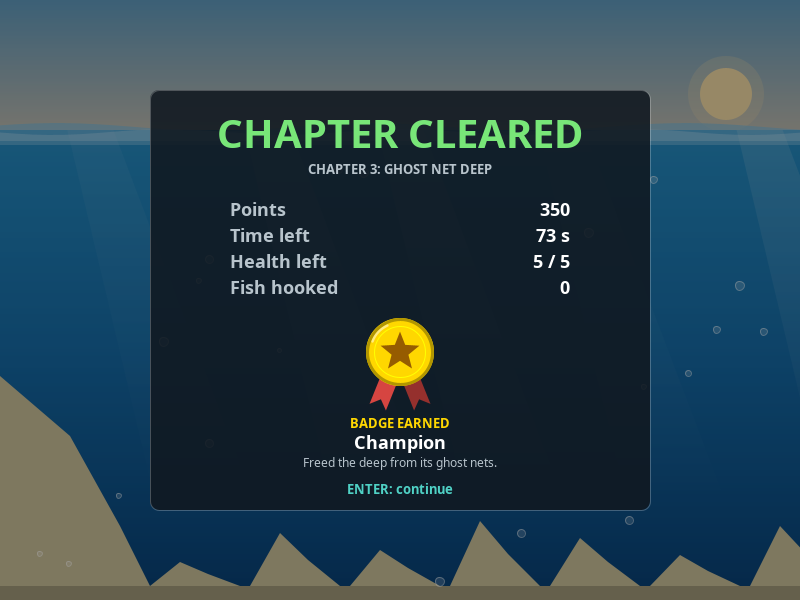
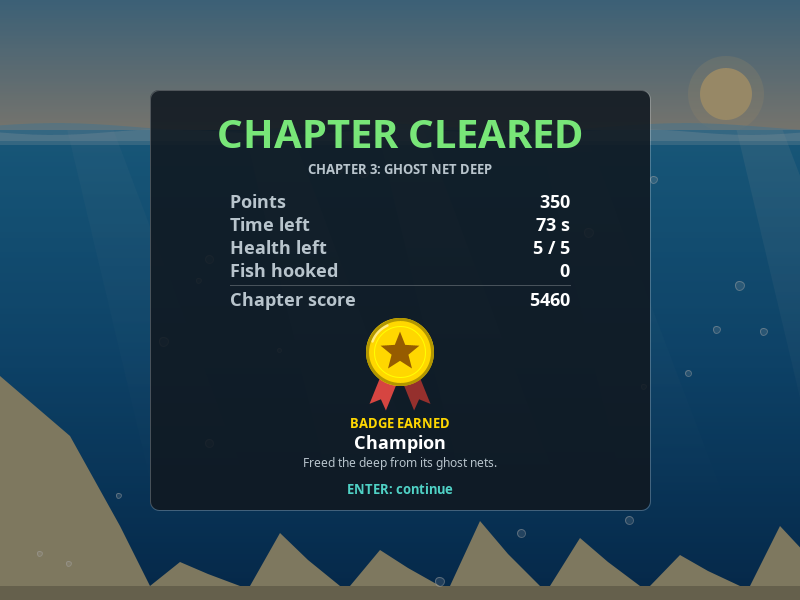
docs: describe the run score and the high scores

Changed region(s): [[0.2812, 0.33, 0.4375, 0.51], [0.6562, 0.33, 0.7188, 0.51]]

diff --git a/README.md b/README.md
@@ -13,6 +13,7 @@ three chapters and the reef comes back to life.
 | ![Chapter 1](docs/screenshots/chapter1.png) | ![Chapter 2](docs/screenshots/chapter2.png) |
 | ![Chapter 3](docs/screenshots/chapter3.png) | ![The ending](docs/screenshots/ending.png) |
 | ![A cleared chapter and its badge](docs/screenshots/cleared.png) | ![The shift report](docs/screenshots/report.png) |
+| ![Typing a name for the list](docs/screenshots/name.png) | ![The high-score list](docs/screenshots/highscores.png) |
 
 Team project for CIS 2103 (Object Oriented Programming), University of San Carlos.
 
@@ -49,7 +50,8 @@ java -cp out Main
 | `Q` / `E` | Previous / next tool |
 | `H` | Show the last tip or hint again |
 | `P` or `Esc` | Pause (resume, sound on or off, restart the chapter, or quit to the menu) |
-| `M` | Sound on or off, on any screen |
+| `M` | Sound on or off, on any screen (except while typing a name) |
+| Letters, `Backspace`, `Enter` | Type and save your name when a run makes the high-score list |
 | `Enter` | Confirm, next story page |
 | `Esc` on a story page | Skip the story |
 | `Up` / `Down` | Move in menus |
@@ -94,6 +96,27 @@ What each tool does:
 | Sorter (silver) | 2 | Clear it with at most 1 slip off the wrong tool, and at least 6 of every 10 throws bringing up trash |
 | Champion (gold) | 3 | Clear it with at least 40% of the time left and at most 1 health lost |
 
+### Score and high scores
+
+When a run ends (the story is finished, or you are fired and press `Esc`), it gets a
+run score:
+
+| What | Worth |
+|---|---|
+| Each point of trash in a cleared chapter | 10 |
+| Each whole second left on the clock of a cleared chapter | 20 |
+| Each health left at the end of a cleared chapter | 100 |
+| Badges | Eco Rookie 300, Sorter 500, Champion 1000 |
+| Failed attempts | minus 500 for the first, 1000 more for the second, 1500 more for the third, ... |
+
+The score never goes below zero. The chapter report shows what the chapter was worth.
+
+The ten best runs are kept on the High Scores page of the menu. A run that makes the
+list asks for a name (up to 12 letters; leave it empty for "NICO"). The list is saved
+in `.fish2trash/highscores.txt` in your home folder; delete that file to start a new
+list. If the file cannot be written the game still works, and the list then lasts
+until the game closes.
+
 ## Folder structure
 
 ```
@@ -121,6 +144,8 @@ FISH2TRASH/
 │   │   ├── GameView         what the screen may read from a game
 │   │   ├── ChapterResult, ChapterStatus, FailCause, SessionStats, GameState
 │   │   ├── Badge            enum: one badge per chapter, each with its own rule
+│   │   ├── ScoreCalculator  the run score: chapters, badges, failed attempts
+│   │   ├── ScoreEntry, HighScoreTable   one line of the high-score list, and the list
 │   │   ├── GameEvent, EventType, GameListener   (observer pattern)
 │   │   ├── HintEngine       decides when the player gets a hint
 │   │   └── HintRule         interface, one small class per reason for a hint:
@@ -131,13 +156,15 @@ FISH2TRASH/
 │   │   ├── Screen           interface every screen implements
 │   │   ├── AudioEventListener   picks the sound for each game event
 │   │   ├── MainMenu, HowToScreen, StoryScreen, GameScreen, PauseOverlay,
-│   │   │   ChapterClearScreen, GameOverScreen, VictoryScreen
+│   │   │   ChapterClearScreen, GameOverScreen, VictoryScreen, NameEntryScreen,
+│   │   │   HighScoreScreen
 │   │   └── render/          SceneRenderer, HudPainter, EffectsSystem, backgrounds and
 │   │                        water, one painter per object kind and per tool, BadgePainter
 │   └── util/
 │       ├── GameConstants    every tuning number in one place
 │       ├── StoryText        every line of text the player reads
 │       ├── Mathx            clamp, lerp, easing
+│       ├── HighScoreStore, HighScoreException   the score file, and what goes wrong with it
 │       ├── ToneSynth        turns a recipe of tones into sound samples
 │       ├── SoundEffect      enum: one recipe per sound in the game
 │       └── AudioPlayer      interface: SynthAudioPlayer (real), SilentAudioPlayer (no sound)
@@ -173,6 +200,9 @@ A class diagram is in [docs/class-diagram.md](docs/class-diagram.md).
 9. When the chapter ends, the session records a `ChapterResult`, asks the chapter's
    `Badge` whether that result earns it, and the screens move on: report card and next
    chapter after a clear, pink slip and retry after a fail.
+10. When the run ends, `ScoreCalculator` works out the run score. If the
+    `HighScoreTable` has room for it, `NameEntryScreen` asks for a name and adds a
+    `ScoreEntry`; the table sorts itself and saves through `HighScoreStore`.
 
 ### OOP concepts, and where to point at them
 
@@ -183,7 +213,9 @@ A class diagram is in [docs/class-diagram.md](docs/class-diagram.md).
 | Abstraction | `OceanObject`, `OceanTrash`, `Fish` and `Equipment` are abstract. `GameView`, `ObjectView`, `HookSensor`, `Screen`, `GameListener`, `CatchResolver`, `HintRule`, `ObjectPainter`, `ToolPainter` and `AudioPlayer` are interfaces that hide what is behind them. |
 | Polymorphism | `object.onCaught(player, hook)`, `object.move(dt)` and `object.sense(hook)` (a pufferfish weaves and swells, a barracuda charges), `tool.attempt(object)`, `outcome.resolve(...)`, `rule.isTriggered(stats, game)`, `badge.isEarnedBy(result)`, `screen.paint(g)`, `painter.paint(...)`: one call, different behaviour per class. |
 | Composition | `Boat` owns its `Hook`; the `Hook` carries a `Loadout` of tools; `GameManager` owns a `Level`. |
-| Custom exception | `Loadout.select()` throws the checked `EquipmentLockedException` for a tool the crew does not have yet. `GameManager.selectTool()` catches it and turns it into a message on screen. |
+| Custom exception | `Loadout.select()` throws the checked `EquipmentLockedException` for a tool the crew does not have yet. `GameManager.selectTool()` catches it and turns it into a message on screen. `HighScoreStore` and `ScoreEntry.parse()` throw the checked `HighScoreException` (it wraps the `IOException`); `HighScoreTable` catches it, skips a damaged line or carries on without the file. |
+| Comparable and collections | `ScoreEntry implements Comparable<ScoreEntry>`, so `Collections.sort` orders the list. `ArrayList` for lists, `EnumMap` and `EnumSet` for lookups and sets keyed by an enum. |
+| File I/O | `HighScoreStore` reads and writes the score file with `java.nio.file`, writing a draft first and swapping it in. |
 | Enums with behaviour | `ObjectKind.create()` and `EquipmentType.create()` build their own objects; `CatchOutcome.resolve()` calls the right method; each `Badge` constant carries its own rule. No `switch` over types. |
 
 Patterns used: observer (`GameListener`), template method (`OceanObject.update`,
@@ -214,6 +246,9 @@ no test library is needed. The script exits with an error if any check fails.
 | `GameEventTest`, `ChapterFlowTest` | The events the game announces; winning, the frozen clock, and both ways to lose |
 | `LevelSpawnTest` | Spawn tables: timing, counts, distance from the hook, and enough trash to finish |
 | `SessionTest` | Moving on after a clear, retrying after a fail |
+| `ScoreFlowTest` | What a chapter, a badge and a failed attempt do to the run score, checked against the numbers in `GameConstants` |
+| `HighScoreStoreTest` | Tidy names; the line format of the score file; the order and length of the list; a restart, a damaged file and a failed save. Uses temporary folders, never your real list |
+| `HighScoreScreenTest` | When a name is asked for, what can be typed, and that the run lands on the list and in the file |
 | `BalanceBotTest` | A simple computer player, changing tools as needed, must be able to win every chapter at least half the time, and to earn each badge |
 | `StoryTextTest` | Every story page, fail message and tip fits its box |
 | `ScreenFlowTest` | Key presses lead to the right screens: menu, story, pause, fired screen, retry |
@@ -259,12 +294,13 @@ The tests cannot judge how the game feels or sounds. Use the checklist below for
 - [ ] `Q` and `E` step through all three tools.
 - [ ] A pufferfish swells when the hook is near. Hooking it costs 2.
 - [ ] A barracuda flashes, then charges. Hooking it costs 2.
-- [ ] Clearing it shows the ending, then the shift report, then the menu.
+- [ ] Clearing it shows the ending, then the shift report, then the name entry.
 
 **Losing and pausing**
 - [ ] Time running out shows the pink slip with a "tide" or "time" message.
 - [ ] Health reaching 0 shows the pink slip with a "fish" message.
-- [ ] Enter retries the same chapter; Esc returns to the menu.
+- [ ] Enter retries the same chapter; Esc ends the run (menu, or the name entry if the
+      run scored enough for the list).
 - [ ] `P` or `Esc` pauses. Resume, Restart chapter and Quit to menu all work.
 - [ ] Clicking another window pauses the game.
 
@@ -283,6 +319,18 @@ The tests cannot judge how the game feels or sounds. Use the checklist below for
 - [ ] Chapter 2 played cleanly: the silver Sorter medal.
 - [ ] Chapter 3 cleared fast with at most 1 health lost: the gold Champion medal.
 - [ ] The shift report at the end shows the three medals, the missed ones in grey.
+
+**High scores**
+- [ ] The menu's High Scores page opens; with no file yet it says "No scores yet".
+- [ ] The chapter report shows a chapter score.
+- [ ] Finish the story: the shift report shows the run score, then the name entry appears
+      with a short fanfare.
+- [ ] Typing shows capital letters; `Backspace` deletes; no more than 12 fit; typing an
+      `M` does not switch the sound.
+- [ ] `Enter` saves and shows the list with your run picked out. Empty name: "NICO".
+- [ ] Close the game and start it again: the run is still on the list.
+- [ ] Clear chapter 1, get fired in chapter 2 and press `Esc`: the name entry appears too.
+- [ ] Get fired in chapter 1 without clearing anything and press `Esc`: straight to the menu.
 
 **Sound**
 - [ ] Dropping the hook, each kind of trash, a fish hit, reaching the quota, clearing

diff --git a/docs/proposal-edits.md b/docs/proposal-edits.md
@@ -42,7 +42,7 @@ feature is merged, or move the feature to "Future work" if it is dropped.
       already cleared stay cleared.
 - [ ] **Figure 1:** replace the mockup with a real screenshot. Ready-made ones are in
       `docs/screenshots/` (`chapter1.png`, `chapter2.png`, `chapter3.png`, `menu.png`, `story.png`,
-      `ending.png`, `cleared.png`, `report.png`). Change the caption from "Concept mockup"
+      `ending.png`, `cleared.png`, `report.png`, `name.png`, `highscores.png`). Change the caption from "Concept mockup"
       to "The game in chapter 1".
 - [ ] **2.2 Objects in Water:** the first column header "Objective" should be "Category".
       Add two rows under Marine Wildlife: "Pufferfish (dangerous)" and "Barracuda (dangerous)".
@@ -57,9 +57,12 @@ feature is merged, or move the feature to "Future work" if it is dropped.
 - [ ] **2.4 Scoring:** the points are right (10, 20, 50). Add: "Reaching the quota stops
       the clock; the chapter is cleared when that catch reaches the boat."
 - [ ] **2.4 Optional extras:** sound effects, a tool for each kind of trash, hints
-      after repeated mistakes and a badge per chapter are in: list them as "Included
-      extras". A high-score list is planned.
-      **(later)** Move it to the "Included extras" line when it is merged.
+      after repeated mistakes, a badge per chapter and a high-score list are all in:
+      list them as "Included extras".
+- [ ] **2.4 Scoring:** add the run score. "Each cleared chapter is worth 10 per point,
+      20 per second left and 100 per health left. Badges add 300, 500 and 1000. Failed
+      attempts cost 500, then 1000 more, then 1500 more. The ten best runs are kept in
+      a high-score list that is saved to a file."
 - [ ] **2.4 Scoring:** add the badges. "Eco Rookie: clear chapter 1. Sorter: clear
       chapter 2 with at most 1 slip and at least 60% of throws bringing up trash.
       Champion: clear chapter 3 with at least 40% of the time left and at most 1
@@ -87,9 +90,11 @@ feature is merged, or move the feature to "Future work" if it is dropped.
 - [ ] **3.1 Other Java concepts:** remove "//double check". Replace `enum (BinType)` with
       `enum (ObjectKind, EquipmentType, EventType, ChapterStatus, GameState, CatchOutcome, Badge)`.
       Replace `BinFullException` with `EquipmentLockedException` (thrown when the player
-      asks for a tool the crew does not have yet). **(later:** a second one arrives with
-      the high-score file). `ArrayList` and `HashMap` are used;
-      add `EnumMap`, which the game uses for lookups by enum.
+      asks for a tool the crew does not have yet) and `HighScoreException` (thrown when
+      the high-score file cannot be read or written, or a line of it is damaged).
+      `ArrayList` and `HashMap` are used; add `EnumMap` and `EnumSet`, which the game
+      uses for lookups and sets by enum, `Comparable` (`ScoreEntry`, to sort the
+      high-score list) and file reading and writing (`HighScoreStore`).
 - [ ] **3.2 Main Classes, Player:** remove "and quota". The quota belongs to the chapter
       (`ChapterData`), not the player.
 - [ ] **3.2 Fish:** kind is "abstract class", with the four concrete fish under it.
@@ -100,6 +105,8 @@ feature is merged, or move the feature to "Future work" if it is dropped.
 - [ ] **3.2 add rows:** `ChapterData` (a chapter's numbers as data), `GameSession` (the
       run across chapters), `ScreenManager` and `Screen` (the screens), `Equipment`
       (the tool on the line), `GameEvent` and `GameListener` (the observer pattern).
+      Also `Badge` (one per chapter), `ScoreCalculator` (the run score), `ScoreEntry`
+      and `HighScoreTable` (the high-score list).
 - [ ] **Figure 2:** redraw it from `docs/class-diagram.md`. The current figure shows
       methods that do not exist (`collectTrash`, `collectFish`, `onHookHit`, `getType`)
       and a `gameState: String`; the code uses `onCaught`, `ObjectKind` and enums.
@@ -111,11 +118,15 @@ feature is merged, or move the feature to "Future work" if it is dropped.
     `ChapterData`, `SpawnRule`, `Equipment`, `PlainHook`, `Magnet`, `NetCutter`,
     `EquipmentType`, `Loadout`. Change "No JavaFX imports" to
     "No Swing or AWT imports".
-  - `game`: remove `GameController`. Add `GameSession`, `GameEvent`, `GameListener`.
+  - `game`: remove `GameController`. Add `GameSession`, `GameEvent`, `GameListener`,
+    `HintEngine` (with its `HintRule`s), `Badge`, `ScoreCalculator`, `ScoreEntry` and
+    `HighScoreTable`.
   - `ui`: the screens are `MainMenu`, `StoryScreen`, `GameScreen`, `ChapterClearScreen`,
-    `GameOverScreen`, `VictoryScreen`, `HowToScreen`, `PauseOverlay`. Change "JavaFX
-    screens" to "Swing screens".
-  - `util`: `GameConstants`, `StoryText` (all in-game text) and `Mathx`.
+    `GameOverScreen`, `VictoryScreen`, `NameEntryScreen`, `HighScoreScreen`,
+    `HowToScreen`, `PauseOverlay`. Change "JavaFX screens" to "Swing screens".
+  - `util`: `GameConstants`, `StoryText` (all in-game text), `Mathx`, the sound classes
+    (`SoundEffect`, `ToneSynth`, `AudioPlayer`), `HighScoreStore` and
+    `HighScoreException`.
 - [ ] **3.4 Illustrative Code:** remove "// to update" and replace the sample
       (`WasteItem`, `BinType`, `GameController`) with real code, for example:
 
